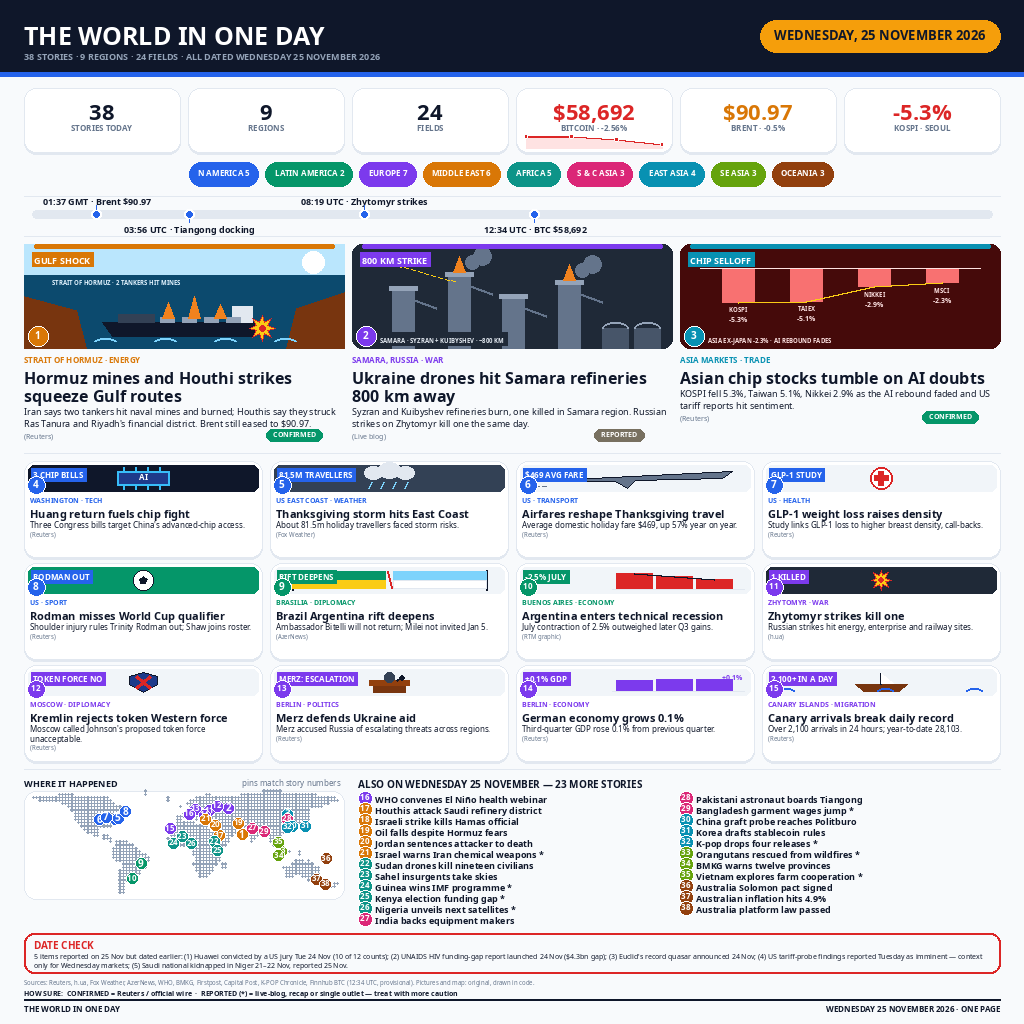
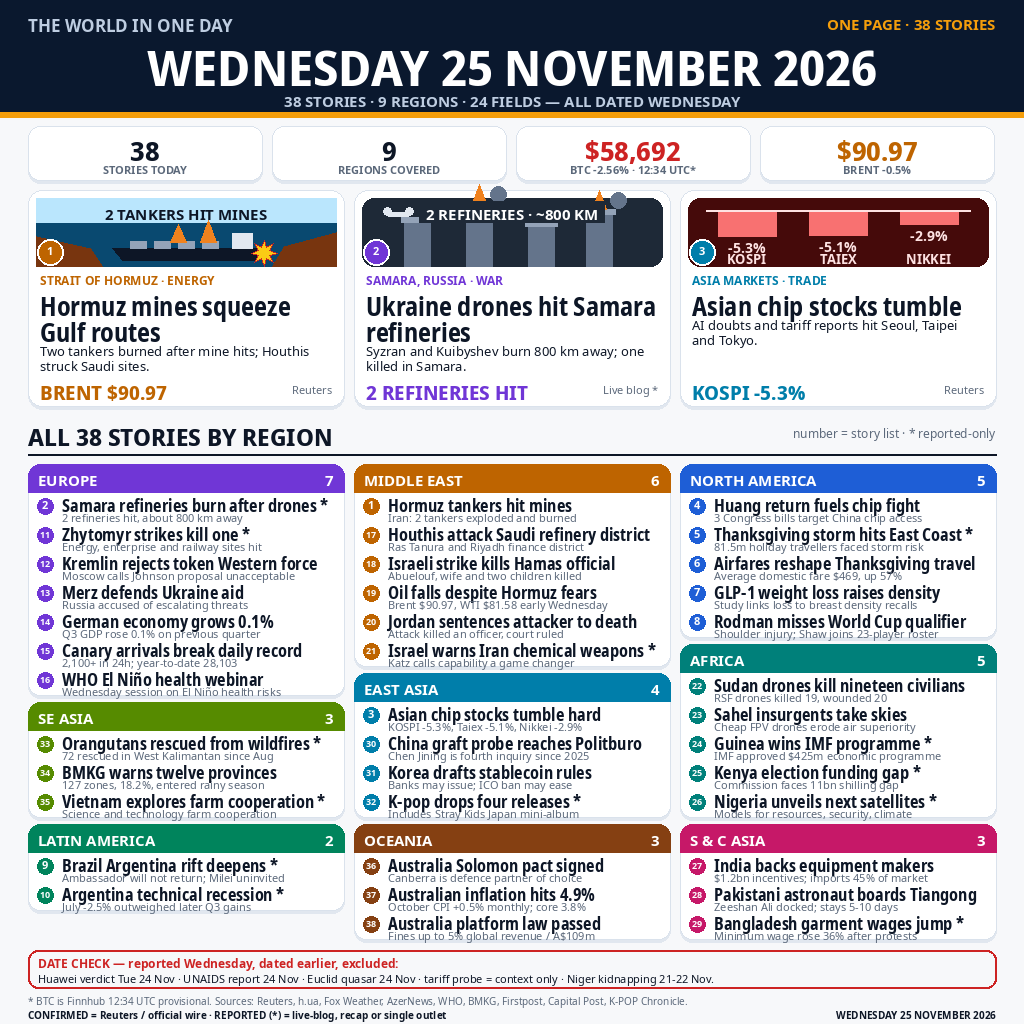
v2 legibility redesign: big masthead, large lead cards, complete region board

diff --git a/main.py b/main.py
@@ -2,9 +2,9 @@
 """Entry program for news-image-20261125.
 
 Copies the pre-rendered Wednesday 25 November 2026 front page (entry.png,
-generated deterministically by prep/news25/build.py) into the output
-directory. No clock, no network, no randomness: both runs write the
-same bytes.
+generated deterministically offline by prep/news25/build_v2.py) into the
+output directory. No clock, no network, no randomness: both runs write
+the same bytes.
 """
 import os
 import shutil
@@ -16,6 +16,7 @@ def main():
     outdir = os.environ.get("MAKEFUN_OUTPUT_DIR", "/output")
     os.makedirs(outdir, exist_ok=True)
     dst = os.path.join(outdir, "entry.png")
+    # v2 keeps this copy-only pattern; all rendering stays offline.
     # Size guard: the gate caps the image at 1 MiB.
     assert os.path.getsize(src) <= 1048576, "entry.png exceeds the 1 MiB cap"
     shutil.copyfile(src, dst)

diff --git a/README.md b/README.md
@@ -4,24 +4,24 @@
 [![rank](https://make.fun/badge/news-image-20261125/BokeXe/news-image-20261125/rank.svg)](https://make.fun/bounty/news-image-20261125/leaderboard?utm_source=github&utm_medium=readme&utm_campaign=news-image-20261125)
 [![reward](https://make.fun/badge/news-image-20261125/BokeXe/news-image-20261125/reward.svg)](https://make.fun/bounty/news-image-20261125?utm_source=github&utm_medium=readme&utm_campaign=news-image-20261125)
 
-Wednesday 25 November 2026 in one image — a modern news dashboard with 38
-date-checked stories across 9 regions and 24 fields: an ink header band with
-the amber date chip, six stat cards (including Bitcoin at $58,692, -2.56%,
-with a mini area chart from Finnhub closes), region pills, a UTC timeline,
-three flat-vector lead panels (Hormuz tanker mines and Houthi strikes;
-Ukraine's drone hits on Samara refineries; the Asian chip-stock selloff), a
-12-card grid, a dotted world map with numbered pins, and a full numbered
-story index. Stories are tagged CONFIRMED (Reuters / official wire) or
-REPORTED (live-blog, recap or single outlet), and a DATE CHECK box names the
-five neighbouring-day items reported on 25 November, so nothing dated
-24 November or earlier is presented as Wednesday's news.
+Wednesday 25 November 2026 in one image — a legibility-first news page with
+38 date-checked stories across 9 regions and 24 fields. A full-width
+masthead names the day, four KPI cards carry the headline numbers (including
+Bitcoin at $58,692, -2.56%, Finnhub 12:34 UTC provisional), and the three
+leads — Hormuz tanker mines and Houthi strikes; Ukraine's drone hits on
+Samara refineries; the Asian chip-stock selloff — run as large cards with
+big headlines and one clear stat each. Below them, a complete board lists
+all 38 stories grouped by region with short headlines and one factual
+detail line per story. Reported-only items are marked *, and a DATE CHECK
+box names the five neighbouring-day items reported on 25 November, so
+nothing dated 24 November or earlier is presented as Wednesday's news.
 
 `main.py` copies `entry.png` (1024×1024, ≤1 MiB) to `/output/entry.png`;
 both runs write identical bytes, no network.
 
 ## Reproduce
 
-`entry.png` is rendered deterministically by `../prep/news25/build.py`
+`entry.png` is rendered deterministically by `../prep/news25/build_v2.py`
 (Pillow, Noto Sans fonts, no clock, no network) from the dated research
 brief `../prep/news25-research.md`. Re-running it produces the same bytes;
 `main.py` refuses to finish if the source exceeds 1 MiB or the copied
